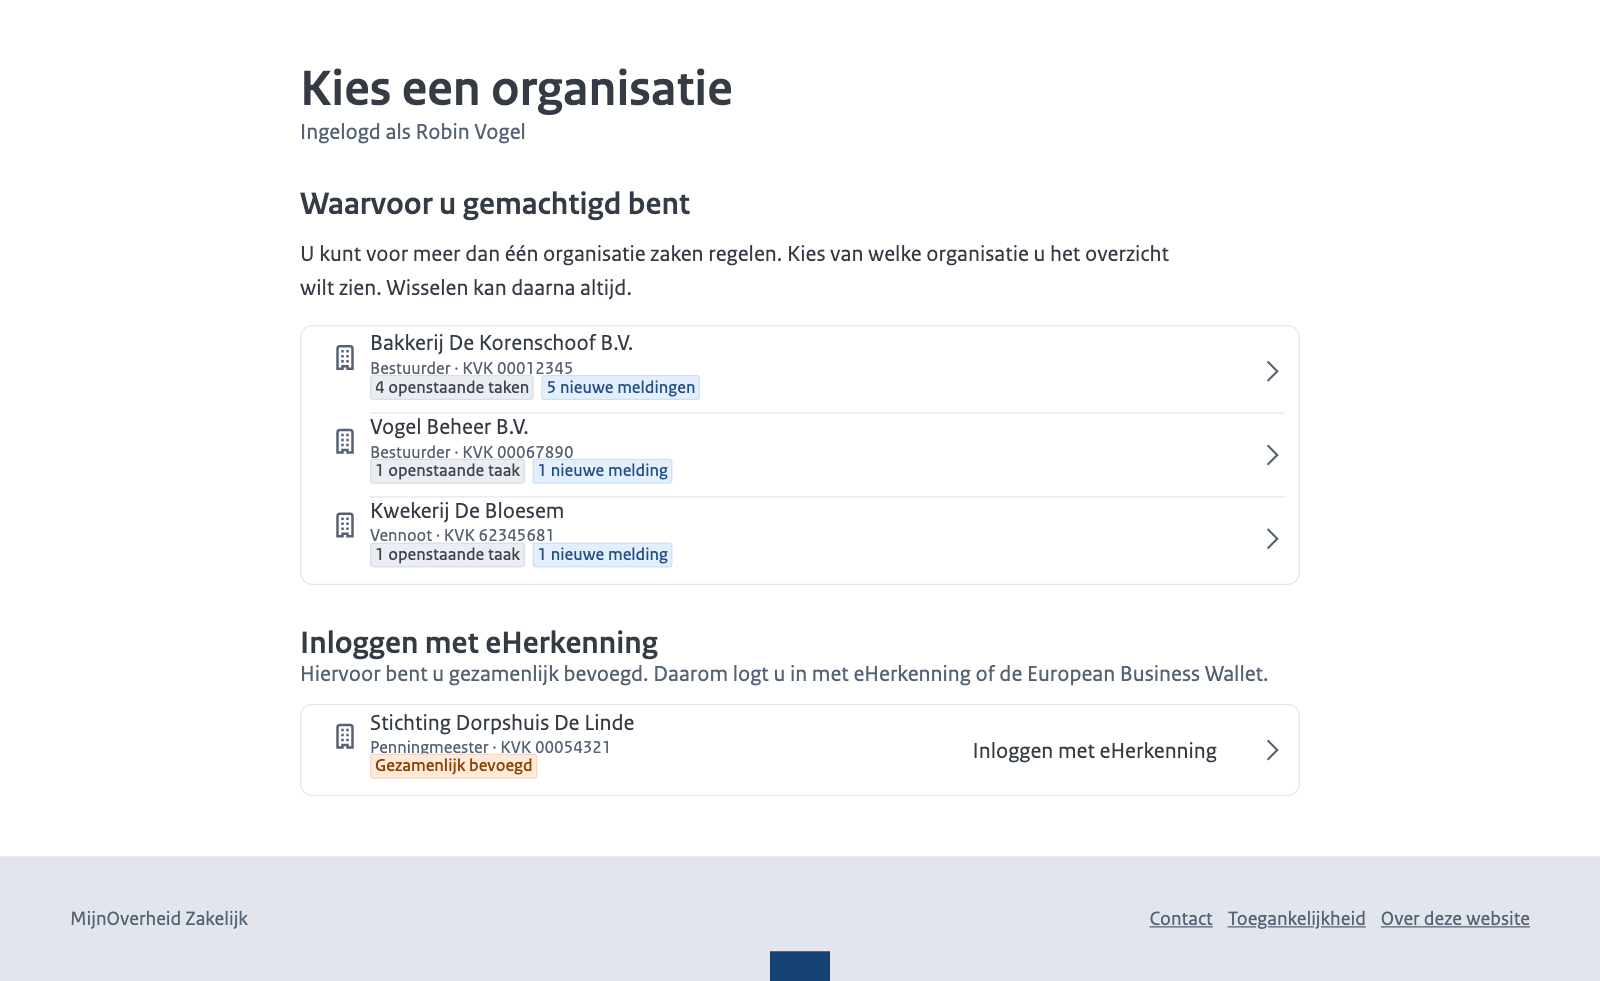
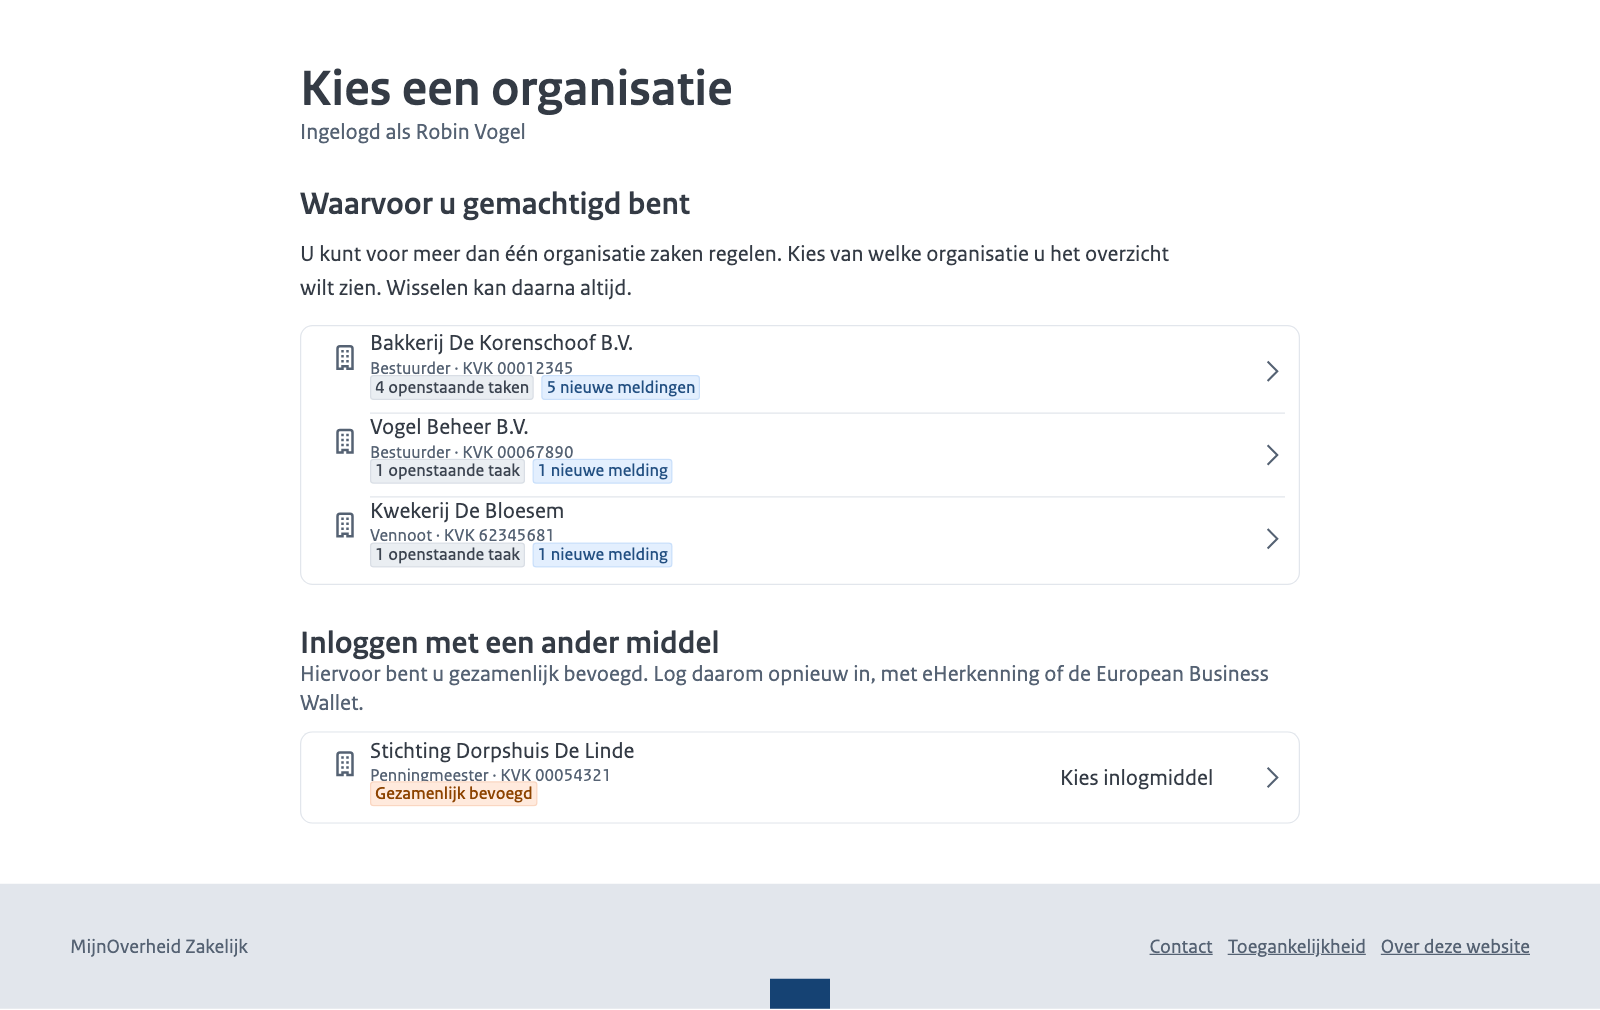
Gezamenlijk bevoegd: 'Inloggen met een ander middel', daarna keuze eHerkenning of EBW

diff --git a/platform-flow.html b/platform-flow.html
@@ -255,7 +255,7 @@ const NODES = {
     punten: ['De e-mail bevat geen inhoud van het bericht, alleen dat er iets klaarstaat.', 'Om het bericht te lezen, gaat Karin naar MOZa of rechtstreeks naar de Belastingdienst.'] },
   berichtWaar: { type: 'keuze', col: 3, row: 2.5, groep: 'Ondernemer', label: 'Waar gaat de ondernemer naartoe?', wie: 'de ondernemer', inlog: OPENBAAR,
     context: 'Na de e-mail kan Karin op twee plekken het bericht lezen.' },
-  belastingdienst: { type: 'taak', col: 4, row: -8, groep: 'Belastingdienst', label: 'Inloggen bij Mijn Belastingdienst Zakelijk', wie: 'de ondernemer, bij de Belastingdienst', inlog: ['bezig', 'Bezig met inloggen'],
+  belastingdienst: { type: 'taak', col: 4, row: -9.3, groep: 'Belastingdienst', label: 'Inloggen bij Mijn Belastingdienst Zakelijk', wie: 'de ondernemer, bij de Belastingdienst', inlog: ['bezig', 'Bezig met inloggen'],
     context: 'Karin gaat rechtstreeks naar Mijn Belastingdienst Zakelijk om het bericht te lezen, en logt daar in.',
     punten: ['Dezelfde inlogstappen als bij MOZa: eerst voor wie, dan het inlogmiddel.'] },
   ziek: { type: 'taak', col: 2, row: 3.5, groep: 'Ondernemer', label: 'Personeel ziek melden', wie: 'de ondernemer', inlog: OPENBAAR,
@@ -330,25 +330,31 @@ const NODES = {
     bron: 'Bronnen: KVK, [Zoeken op Natuurlijk Persoon](https://www.kvk.nl/zoeken/over-znp/), [KVK Dataservice](https://www.kvk.nl/producten-bestellen/kvk-dataservice), [aansluiten voor overheden](https://www.kvk.nl/producten-bestellen/kvk-dataservice-aansluiten-overheid/) en [autorisaties](https://kvk.nl/en/about-the-business-register/authorisations-to-view-non-public-data).' },
   kies: { type: 'taak', col: 9.9, row: 0, groep: 'MOZa', label: 'Kies een onderneming', wie: 'de ondernemer, bij MOZa', inlog: ['bezig', 'Ingelogd als persoon'],
     context: 'De ondernemer kiest de onderneming, zoals je op het platform een organisatie kiest.',
-    punten: ['Ondernemingen waarvoor de ondernemer gezamenlijk bevoegd is, staan in een aparte lijst. Kiest de ondernemer er een, dan gaat die naar de inlogpagina van eHerkenning.'],
+    punten: ['Ondernemingen waarvoor de ondernemer gezamenlijk bevoegd is, staan in een aparte lijst. Kiest de ondernemer er een, dan logt die opnieuw in met een ander middel: eHerkenning of de EBW.'],
     scherm: 'schermen/platform-kies-organisatie.png',
     hotspots: [
-      { x: 19.1, y: 33.6, b: 61.9, h: 8.5, naar: 'samen', label: 'Bakkerij De Korenschoof B.V.' },
-      { x: 19.1, y: 42.1, b: 61.9, h: 8.5, naar: 'samen', label: 'Vogel Beheer B.V.' },
-      { x: 19.1, y: 50.6, b: 61.9, h: 8.4, naar: 'samen', label: 'Kwekerij De Bloesem' },
-      { x: 19.1, y: 72.2, b: 61.9, h: 8.4, naar: 'ehKies', label: 'Stichting Dorpshuis De Linde: inloggen met eHerkenning' },
+      { x: 19.1, y: 32.6, b: 61.9, h: 8.3, naar: 'samen', label: 'Bakkerij De Korenschoof B.V.' },
+      { x: 19.1, y: 40.9, b: 61.9, h: 8.3, naar: 'samen', label: 'Vogel Beheer B.V.' },
+      { x: 19.1, y: 49.2, b: 61.9, h: 8.2, naar: 'samen', label: 'Kwekerij De Bloesem' },
+      { x: 19.1, y: 72.9, b: 61.9, h: 8.2, naar: 'anderMiddel', label: 'Stichting Dorpshuis De Linde: kies inlogmiddel' },
     ],
     prototype: 'https://toon.rijks.app/moza-regelrecht/moza-vragen/#/kies-organisatie',
     bron: 'Scherm "Kies organisatie" uit het prototype van het MOZa platform (moza-vragen), aangevuld met een gezamenlijk bevoegde onderneming.' },
-  geen: { type: 'taak', col: 9.9, row: -2.6, groep: 'MOZa', label: 'Geen ondernemingen gevonden', wie: 'MOZa', inlog: ['bezig', 'Ingelogd als persoon'],
+  geen: { type: 'taak', col: 9.9, row: -3.9, groep: 'MOZa', label: 'Geen ondernemingen gevonden', wie: 'MOZa', inlog: ['bezig', 'Ingelogd als persoon'],
     context: 'MOZa vindt geen onderneming bij deze persoon.',
     punten: ['Bijvoorbeeld omdat de persoon niet met een BSN in het Handelsregister staat, zoals een bestuurder zonder Nederlandse nationaliteit.', 'MOZa legt uit waarom en wijst de weg, bijvoorbeeld naar eHerkenning of een machtiging. Hoe dit scherm eruitziet, volgt nog.'] },
-  ehKies: { type: 'taak', col: 9.9, row: -1.3, groep: 'eHerkenning', label: 'Inloggen met eHerkenning', wie: 'de ondernemer, bij de herkenningsmakelaar', inlog: ['bezig', 'Bezig met inloggen met eHerkenning'],
-    context: 'Voor een onderneming waarvoor de ondernemer gezamenlijk bevoegd is, logt die opnieuw in, nu met eHerkenning.',
-    punten: ['MOZa stuurt de ondernemer door naar de inlogpagina van eHerkenning.', 'Uit de machtiging bij eHerkenning blijkt dat de ondernemer namens deze onderneming mag handelen. Inloggen met de EBW kan ook.'],
+  anderMiddel: { type: 'keuze', col: 9.9, row: -1.3, groep: 'MOZa', label: 'Met welk middel opnieuw inloggen?', wie: 'de ondernemer', inlog: ['bezig', 'Ingelogd als persoon'],
+    context: 'Voor een onderneming waarvoor de ondernemer gezamenlijk bevoegd is, is DigiD niet genoeg.',
+    punten: ['De ondernemer logt opnieuw in, met eHerkenning of de European Business Wallet.'] },
+  ehKies: { type: 'taak', col: 11.1, row: -1.3, groep: 'eHerkenning', label: 'Inloggen met eHerkenning', wie: 'de ondernemer, bij de herkenningsmakelaar', inlog: ['bezig', 'Bezig met inloggen met eHerkenning'],
+    context: 'De ondernemer logt opnieuw in, nu met eHerkenning, voor de onderneming waarvoor die gezamenlijk bevoegd is.',
+    punten: ['MOZa stuurt de ondernemer door naar de inlogpagina van eHerkenning.', 'Uit de machtiging bij eHerkenning blijkt dat de ondernemer namens deze onderneming mag handelen.'],
     scherm: 'schermen/platform-eh-makelaar.jpg',
     hotspots: [{ x: 45.6, y: 77, b: 7.6, h: 6, naar: 'samen', label: 'Verder' }],
     bron: 'Keuze van de leverancier bij eHerkenning, aangepast voor MijnOverheid Zakelijk (uit het inlogconcept eHerkenning). Daarna logt de ondernemer in bij de leverancier, bijvoorbeeld Z login.' },
+  ebwKies: { type: 'taak', col: 11.1, row: -2.6, groep: 'EBW', label: 'Inloggen met de EBW', wie: 'de ondernemer, met de European Business Wallet', inlog: ['bezig', 'Bezig met inloggen met de EBW'],
+    context: 'De ondernemer logt opnieuw in, nu met de European Business Wallet van de onderneming.',
+    punten: ['De EBW laat zien dat de ondernemer namens deze onderneming mag handelen.', 'Zie [wallets](ebw.html).'] },
   ehE: { type: 'taak', col: 7.5, row: 1, groep: 'eHerkenning', label: 'Inloggen met eHerkenning', wie: 'de eigenaar, bij de herkenningsmakelaar', inlog: ['bezig', 'Bezig met inloggen met eHerkenning'],
     context: 'Ook de eigenaar van een eenmanszaak kan met eHerkenning inloggen.',
     punten: ['MOZa krijgt het KVK-nummer en het betrouwbaarheidsniveau.', 'Zie [eHerkenning](eherkenning.html).'],
@@ -438,7 +444,7 @@ const EDGES = [
   ['middelA', 'ehA', 'eHerkenning'], ['middelA', 'ebwA', 'EBW'],
   ['digid', 'aantal'],
   ['aantal', 'kies', 'Meerdere'], ['aantal', 'samen', 'Eén', [[8.7, -0.55], [12.2, -0.55]]], ['aantal', 'geen', 'Geen'],
-  ['kies', 'samen'], ['kies', 'ehKies', 'Gezamenlijk bevoegd'], ['ehKies', 'samen'], ['wallet', 'bevoegd'], ['bevoegd', 'samen'],
+  ['kies', 'samen'], ['kies', 'anderMiddel', 'Gezamenlijk bevoegd'], ['anderMiddel', 'ehKies', 'eHerkenning'], ['anderMiddel', 'ebwKies', 'EBW'], ['ehKies', 'samen'], ['ebwKies', 'samen'], ['wallet', 'bevoegd'], ['bevoegd', 'samen'],
   ['ehE', 'samen'], ['ehB', 'samen'], ['ebwB', 'samen'], ['ehF', 'samen'], ['ehA', 'samen'], ['ebwA', 'samen'],
   ['samen', 'overzicht'], ['overzicht', 'doel'],
   ['doel', 'berichtLezen', 'Bericht lezen', null, 'bericht'], ['doel', 'dienst', 'Dienst gebruiken'], ['doel', 'machtig', 'Iemand machtigen'],
@@ -450,10 +456,10 @@ const EDGES = [
 
 // Via de Belastingdienst: dezelfde inlogstappen als bij MOZa, als kopie (id + '_bd') boven de MOZa-tak.
 // In de teksten wordt MOZa de Belastingdienst; schermen uit het MOZa-prototype gaan niet mee.
-const INLOGSTAPPEN = ['segment', 'middelE', 'middelB', 'middelA', 'digid', 'aantal', 'kies', 'geen', 'ehKies', 'ehE', 'wallet', 'bevoegd',
+const INLOGSTAPPEN = ['segment', 'middelE', 'middelB', 'middelA', 'digid', 'aantal', 'kies', 'geen', 'anderMiddel', 'ehKies', 'ebwKies', 'ehE', 'wallet', 'bevoegd',
   'ehB', 'ebwB', 'ehF', 'ehA', 'ebwA', 'samen'];
 (() => {
-  const BD = '_bd', SCHUIF = -11.5;
+  const BD = '_bd', SCHUIF = -12.8;
   const naarBd = t => typeof t === 'string'
     ? t.replace(/(^|[.:!?]\s+)MOZa\b/g, '$1De Belastingdienst').replace(/\bMOZa\b/g, 'de Belastingdienst') : t;
   for (const id of INLOGSTAPPEN) {

diff --git a/schermen/bron/moza-kies-organisatie.html b/schermen/bron/moza-kies-organisatie.html
@@ -59,9 +59,9 @@
         </nldd-list-item>
       </nldd-list>
       <nldd-spacer size="32"></nldd-spacer>
-      <nldd-title size="4"><h2>Inloggen met eHerkenning</h2><p slot="supporting-text">Hiervoor bent u gezamenlijk bevoegd. Daarom logt u in met eHerkenning of de European Business Wallet.</p></nldd-title>
+      <nldd-title size="4"><h2>Inloggen met een ander middel</h2><p slot="supporting-text">Hiervoor bent u gezamenlijk bevoegd. Log daarom opnieuw in, met eHerkenning of de European Business Wallet.</p></nldd-title>
       <nldd-spacer size="12"></nldd-spacer>
-      <nldd-list appearance="box-base" aria-label="Inloggen met eHerkenning">
+      <nldd-list appearance="box-base" aria-label="Inloggen met een ander middel">
         <nldd-list-item button data-keuze="linde">
           <nldd-spacer-cell size="12"></nldd-spacer-cell>
           <nldd-icon-cell icon="apartment-building" color="secondary" size="24" vertical-alignment="top"></nldd-icon-cell>
@@ -71,7 +71,7 @@
             <nldd-spacer size="6"></nldd-spacer><nldd-container layout="row" gap="6"><nldd-tag size="sm" color="warning" text="Gezamenlijk bevoegd"></nldd-tag></nldd-container>
           </nldd-cell>
           <nldd-spacer-cell size="flexible"></nldd-spacer-cell>
-          <nldd-text-cell width="230px" text="Inloggen met eHerkenning"></nldd-text-cell>
+          <nldd-text-cell width="160px" text="Kies inlogmiddel"></nldd-text-cell>
           <nldd-icon-cell icon="chevron-right" color="secondary" size="20"></nldd-icon-cell>
         </nldd-list-item>
       </nldd-list>
